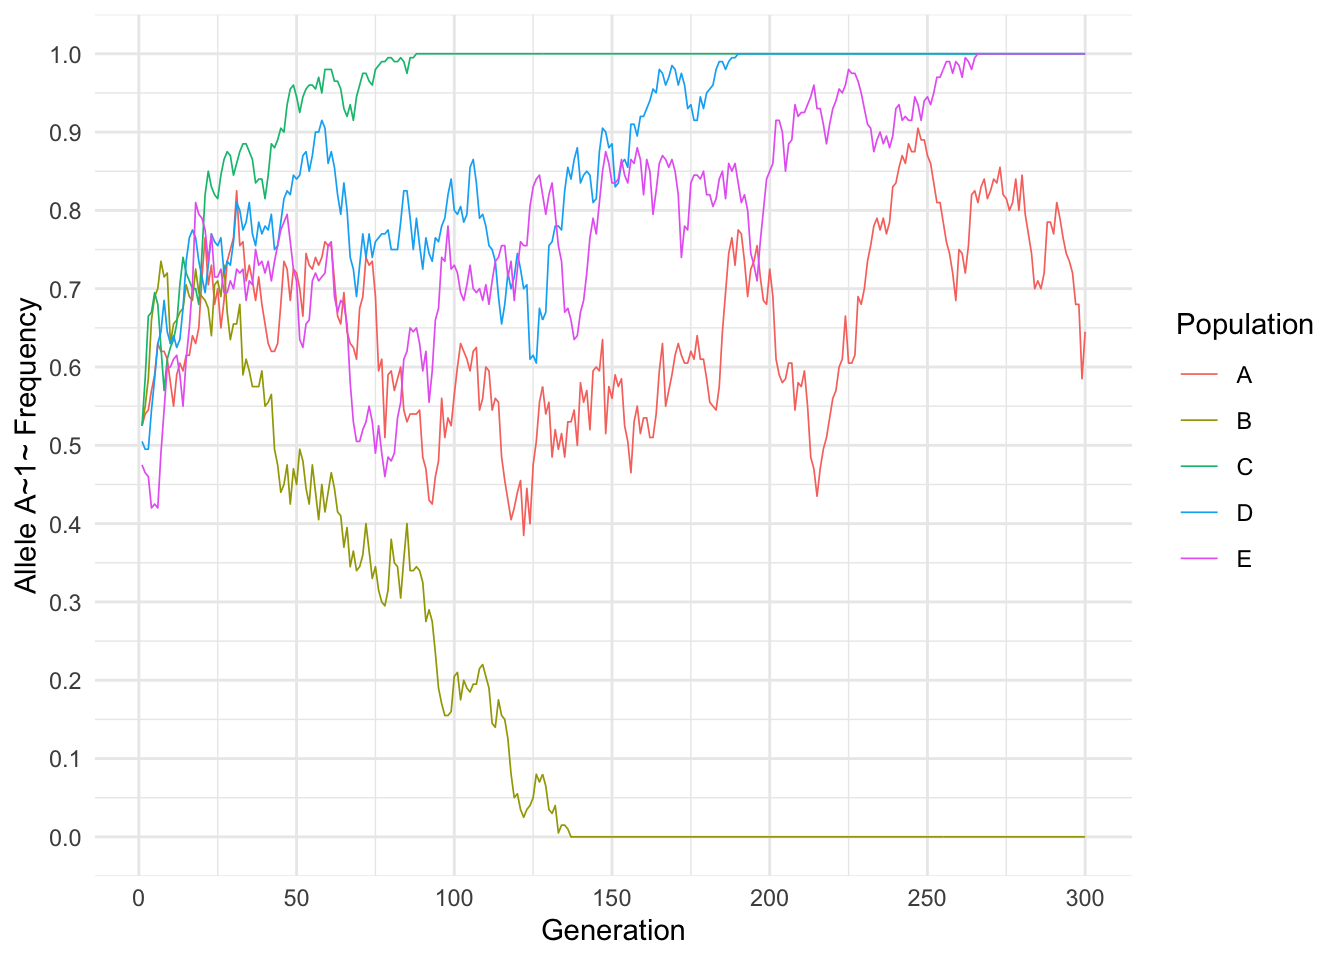
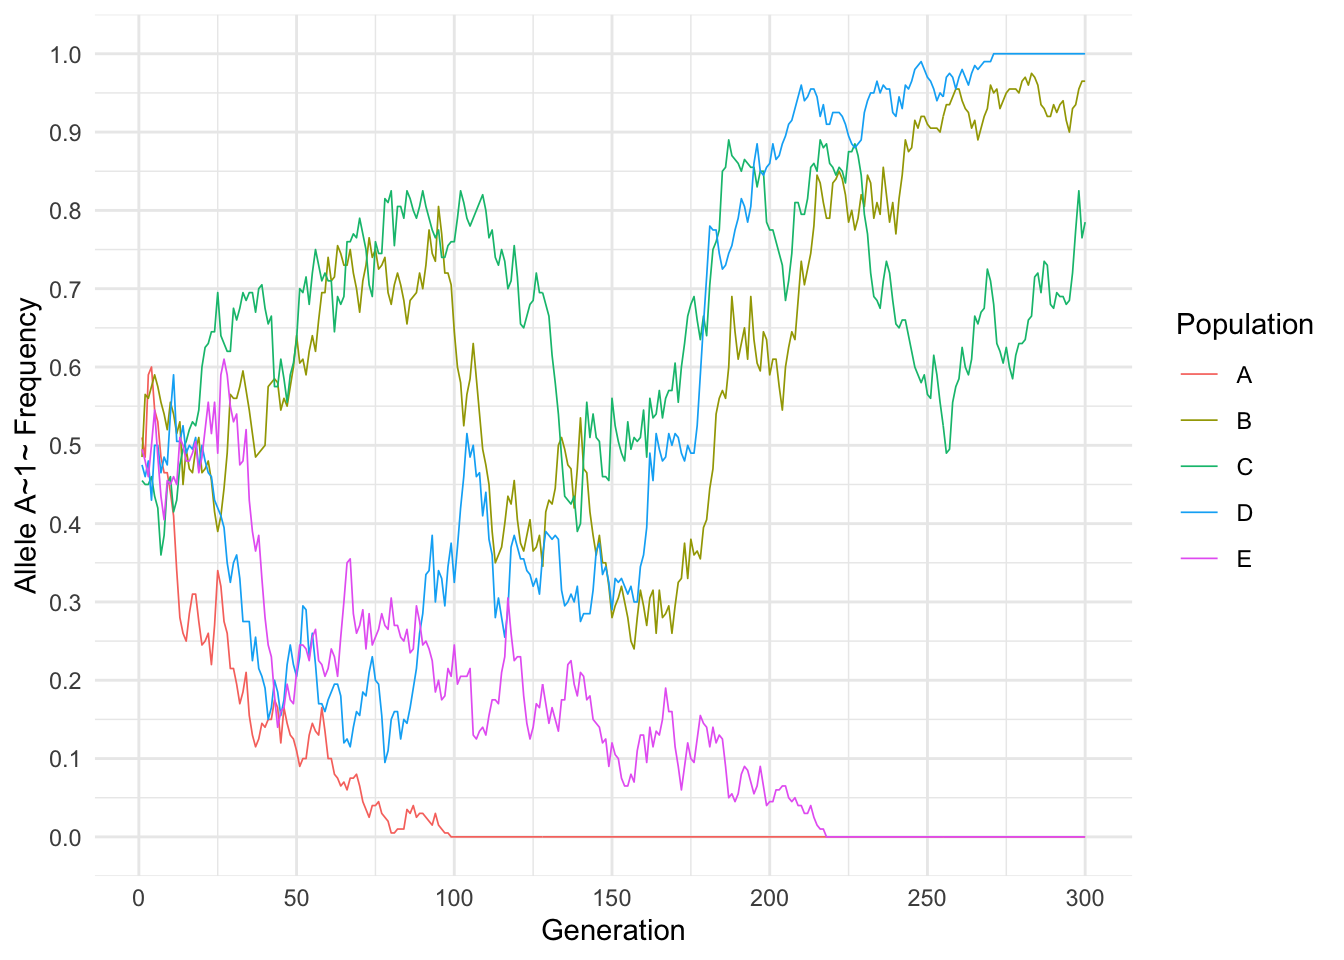
rebuild

diff --git a/docs/notebooks/genetic-drift.html b/docs/notebooks/genetic-drift.html
@@ -279,26 +279,30 @@ The following objects are masked from 'package:stats':
 <span id="cb6-8"><a href="#cb6-8" aria-hidden="true" tabindex="-1"></a>  new_population<span class="ot">&lt;-</span><span class="fu">slice_sample</span>(new_population,<span class="at">n=</span><span class="fu">nrow</span>(population), <span class="at">replace =</span> <span class="cn">TRUE</span>)</span>
 <span id="cb6-9"><a href="#cb6-9" aria-hidden="true" tabindex="-1"></a>}</span></code><button title="Copy to Clipboard" class="code-copy-button"><i class="bi"></i></button></pre></div>
 <div class="cell-output cell-output-stdout">
-<pre><code>[1] "1 9"
-[1] "2 5"
-[1] "3 4"
-[1] "4 4"
-[1] "5 6"
-[1] "6 5"
-[1] "7 5"
-[1] "8 6"
-[1] "9 5"
-[1] "10 3"
-[1] "11 4"
-[1] "12 3"
+<pre><code>[1] "1 13"
+[1] "2 11"
+[1] "3 11"
+[1] "4 13"
+[1] "5 14"
+[1] "6 12"
+[1] "7 13"
+[1] "8 10"
+[1] "9 10"
+[1] "10 8"
+[1] "11 6"
+[1] "12 7"
 [1] "13 4"
-[1] "14 4"
+[1] "14 3"
 [1] "15 2"
-[1] "16 2"
+[1] "16 4"
 [1] "17 3"
-[1] "18 1"
-[1] "19 1"
-[1] "20 0"</code></pre>
+[1] "18 3"
+[1] "19 4"
+[1] "20 4"
+[1] "21 5"
+[1] "22 4"
+[1] "23 3"
+[1] "24 0"</code></pre>
 </div>
 </div>
 </section>

diff --git a/docs/notebooks/hardy-weinberg/hardy-weinberg-chisq-eider-duck.html b/docs/notebooks/hardy-weinberg/hardy-weinberg-chisq-eider-duck.html
@@ -337,7 +337,7 @@ Figure&nbsp;6.1: A male and female Eider. Source: RSPB
 </tr>
 </tbody>
 </table>
-<p><strong>Is this population of ducks in Hardy-Weinberg equlibrium?</strong> To answer that, we need to find out what counts would be <em>expected</em> under Hardy_weinberg equilibrium, based on the probabilities that any individual would have any of the three possible genotypes.</p>
+<p><strong>Is this population of ducks in Hardy-Weinberg equlibrium?</strong> To answer that, we need to find out what counts would be <em>expected</em> under Hardy-Weinberg equilibrium, based on the probabilities that any individual would have any one of the three possible genotypes.</p>
 <section id="calculation-of-frequencies-of-f-and-s-alleles." class="level2" data-number="6.1">
 <h2 data-number="6.1" class="anchored" data-anchor-id="calculation-of-frequencies-of-f-and-s-alleles."><span class="header-section-number">6.1</span> Calculation of frequencies of F and S alleles.</h2>
 <p>Let us use <em>p</em> to denote the frequency of the F allele and <em>q</em> to denote the frequency of the S allele.</p>
